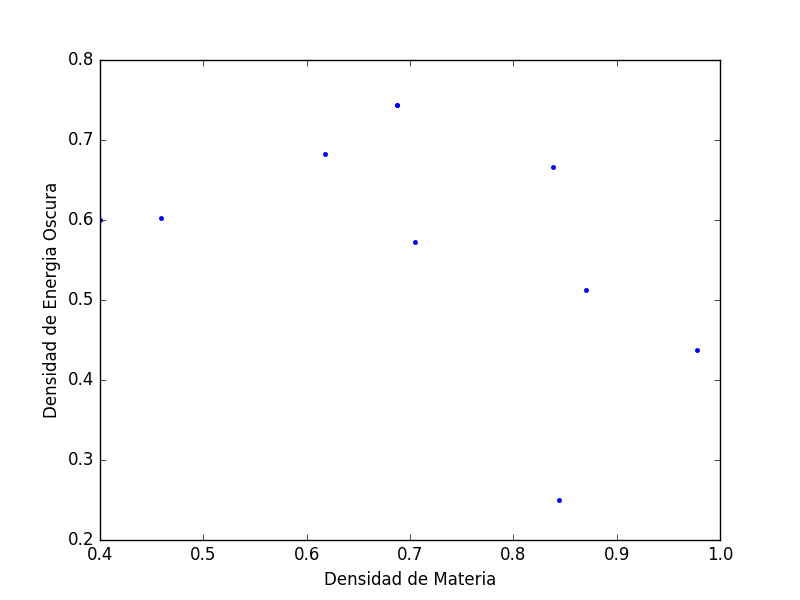
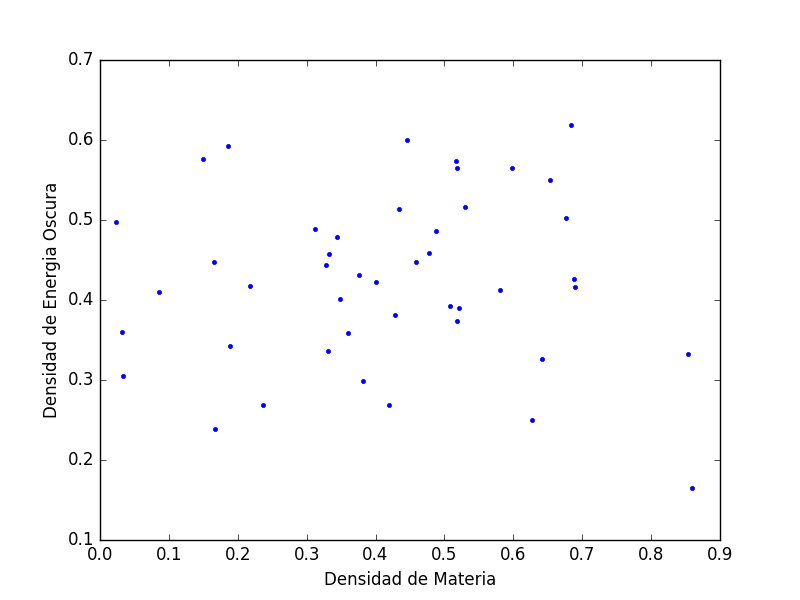
cambio en el codigo
se supone que se mejoro el codigo
un codigo listo para correr una cadena de 5000 puntos

diff --git a/mcsegundointento.py b/mcsegundointento.py
@@ -11,7 +11,7 @@ from scipy import optimize as opt
 from scipy.integrate import odeint
 import time
 # la semilla!!!
-np.random.seed(88)
+np.random.seed(888)
 
 
 # funciones estructurales previas (no mcmc)
@@ -82,7 +82,7 @@ def prior(beta, p, model=0):
     probabilidad a priori que se le da a la adivinanza inicial. dos modelos
     '''
     d_m, d_de = beta
-    a0, a1, b0, b1 = p
+    a0, b0, a1, b1 = p
     s0 = ((d_m - a0) / b0) ** 2
     s1 = ((d_de - a1) / b1) ** 2
     s = (s0 + s1) / 2.
@@ -99,7 +99,7 @@ def likelihood(s, error, model=0):
     return L
 
 
-def paso_metropolis(p0, prior_params, datos, s_0, a, error=1, d=0.05, modelo=0):
+def paso_metropolis(p0, pasos_aceptados, prior_params, datos, s_0, a, error=1, d=0.05, modelo=0):
     mu_0 = marginalizar_mu0(p0, datos)
     dats = datos[0], datos[1] - mu_0, datos[2]
     x0, y0 = p0
@@ -117,12 +117,15 @@ def paso_metropolis(p0, prior_params, datos, s_0, a, error=1, d=0.05, modelo=0):
         #print("densidad energia oscura: "+str(yp))
     s_p = chi_cuadrado([xp, yp], dats, mu_th)
     if s_p > s_0:
-        P = s_0 / s_p
+        S = s_0 / s_p
+        L =  prior([xp, yp], prior_params) / prior([x0, y0], prior_params)
+        P = S * L
         R = np.random.uniform(0, 1)
         if P > R:
             p_n = [xp, yp]
             a += 1
             s_n = s_p
+            pasos_aceptados.append([xp, yp, s_p])
             #print "SI"
         else:
             s_n = s_0
@@ -132,6 +135,7 @@ def paso_metropolis(p0, prior_params, datos, s_0, a, error=1, d=0.05, modelo=0):
         p_n = [xp, yp]
         a += 1
         s_n = s_p
+        pasos_aceptados.append([xp, yp, s_p])
         #print "SI"
     return p_n, s_n, a
 
@@ -139,15 +143,18 @@ def paso_metropolis(p0, prior_params, datos, s_0, a, error=1, d=0.05, modelo=0):
 def monte_carlo(p0, prior_params, N, datos, error=1, d=0.05, modelo=0):
     a = 0
     muestra_met = np.zeros((N, 2))
+    pasos_aceptados = []
     chi_cuad = np.zeros(N)
     muestra_met[0] = [p0[0], p0[1]]
     mu_0 = marginalizar_mu0(p0, datos)
     dats = datos[0], datos[1] - mu_0, datos[2]
     chi_cuad[0] = chi_cuadrado(p0, dats, mu_th)
+    paso_0 = [p0[0], p0[1], chi_cuad[0]]
+    pasos_aceptados = [paso_0]
     print mu_0
     #chi_cuad[0] = L_0[1]
     for i in range(1, N):
-        P_M = paso_metropolis(muestra_met[i-1], prior_params, datos, chi_cuad[i-1], a, error, d, modelo)
+        P_M = paso_metropolis(muestra_met[i-1], pasos_aceptados, prior_params, datos, chi_cuad[i-1], a, error, d, modelo)
         muestra_met[i] = P_M[0]
         chi_cuad[i] = P_M[1]
         a = P_M[2]
@@ -157,6 +164,7 @@ def monte_carlo(p0, prior_params, N, datos, error=1, d=0.05, modelo=0):
     np.save('d.npy', muestra_met)
     np.save('e.npy', chi_cuad)
     np.save('f.npy', a)
+    np.save('g.npy', pasos_aceptados)
     return muestra_met, chi_cuad, a
 
 
@@ -171,15 +179,43 @@ def marginalizar_mu0(r, datos, modelo=0):
 def chi_cuadrado(p, dat, f):
     x, y, err = dat
     S = np.sum(((y - f(p, x)) ** 2) / err ** 2)
-    print S
     return S
+
+
+def residuo_modelo(p, z_exp, mu_exp):
+    '''
+    diferencia entre los valores del modelo y los experimentales
+    '''
+    err = mu_exp - mu_th(p, z_exp)
+    return err
+
+
+def optimizar(err, p0, z_exp, mu_exp):
+    '''
+    calcula los mejores parametros que se ajustan al modelo
+    '''
+    opt = leastsq(err, p0, args=(z_exp, mu_exp))
+    return opt
+
+
+def mejor_adivinanza(p0, datos):
+    z_exp, mu_exp, err = datos
+    mu_0 = marginalizar_mu0(p0, datos)
+    a = leastsq(residuo_modelo, p0, args=(z_exp, mu_exp))
+    return a[0]
 
 
 # inicializacion
 z, mu, mu_err = leer_archivo('SnIa_data.txt')
 datos = z, mu, mu_err
-adivinanza1 = [0.4, 0.3, 0.6, 0.5]
-N = 1000
+adivinanza1 = [0.29, 0.2, 0.78, 0.3]
+'''
+p00 = 0.78, 0.29
+mu_0 = marginalizar_mu0(p00, datos)
+dats = datos[0], datos[1] - mu_0, datos[2]
+print chi_cuadrado(p00, dats, mu_th)
+'''
+N = 5000
 p0 = np.random.uniform(0, 1), np.random.uniform(0, 1)
 #p0 = 0.4, 0.6
 t0 = time.time()

diff --git a/graficosnuevos.py b/graficosnuevos.py
@@ -10,12 +10,13 @@ from scipy.optimize import leastsq
 from scipy import optimize as opt
 from scipy.integrate import odeint
 import time
+from mpl_toolkits.mplot3d import Axes3D
 
 
 A = np.load('d.npy')
 B = np.load('e.npy')
 C = np.load('f.npy')
-A0 = np.load('d0.npy')
+D = np.load('g.npy')
 B0 = np.load('e0.npy')
 C0 = np.load('f0.npy')
 print A
@@ -26,7 +27,7 @@ N = np.linspace(1, n, num=n)
 fig = plt.figure()
 fig.clf()
 ax1 = fig.add_subplot(111)
-ax1.plot(A[:, 0], A[:, 1], '.')
+ax1.plot(D[:, 0], D[:, 1], '.')
 ax1.set_xlabel("Densidad de Materia")
 ax1.set_ylabel("Densidad de Energia Oscura")
 plt.legend(loc=4)
@@ -36,11 +37,22 @@ plt.show()
 fig = plt.figure()
 fig.clf()
 ax2 = fig.add_subplot(111)
-ax2.plot(N, B)
+ax2.plot(N, B, '.')
 ax2.set_xlabel("Densidad de Materia")
 ax2.set_ylabel("Densidad de Energia Oscura")
 plt.legend(loc=4)
 plt.savefig("chicuad.png")
 plt.draw()
 plt.show()
-print C, C0
+print C
+
+fig=plt.figure(1)
+fig.clf()
+ax=fig.add_subplot(111, projection='3d')
+ax.set_aspect('equal')
+ax.plot(D[:, 0], D[:, 1], D[:, 2], '.')
+ax.set_xlabel('Densidad de Materia')
+ax.set_ylabel('Densidad de Energia Oscura')
+ax.set_zlabel('Chi Cuadrado')
+plt.savefig("chicuadenelespacio.png")
+plt.show()
